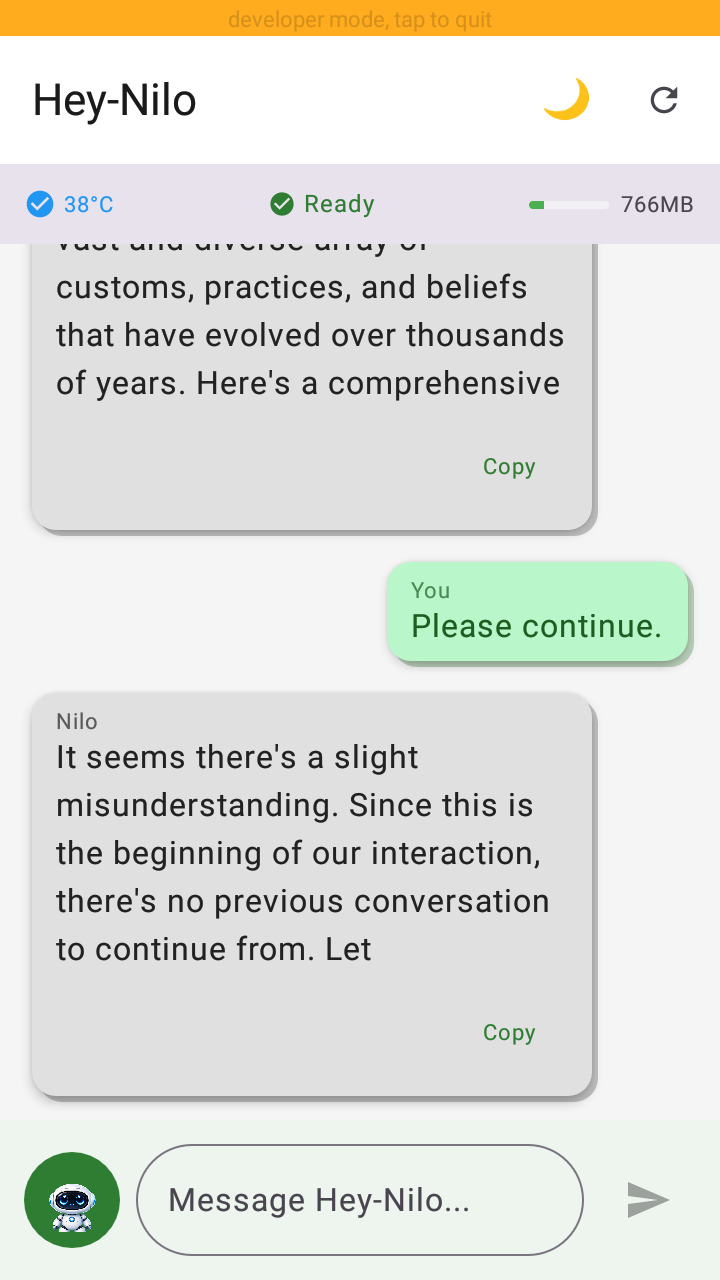
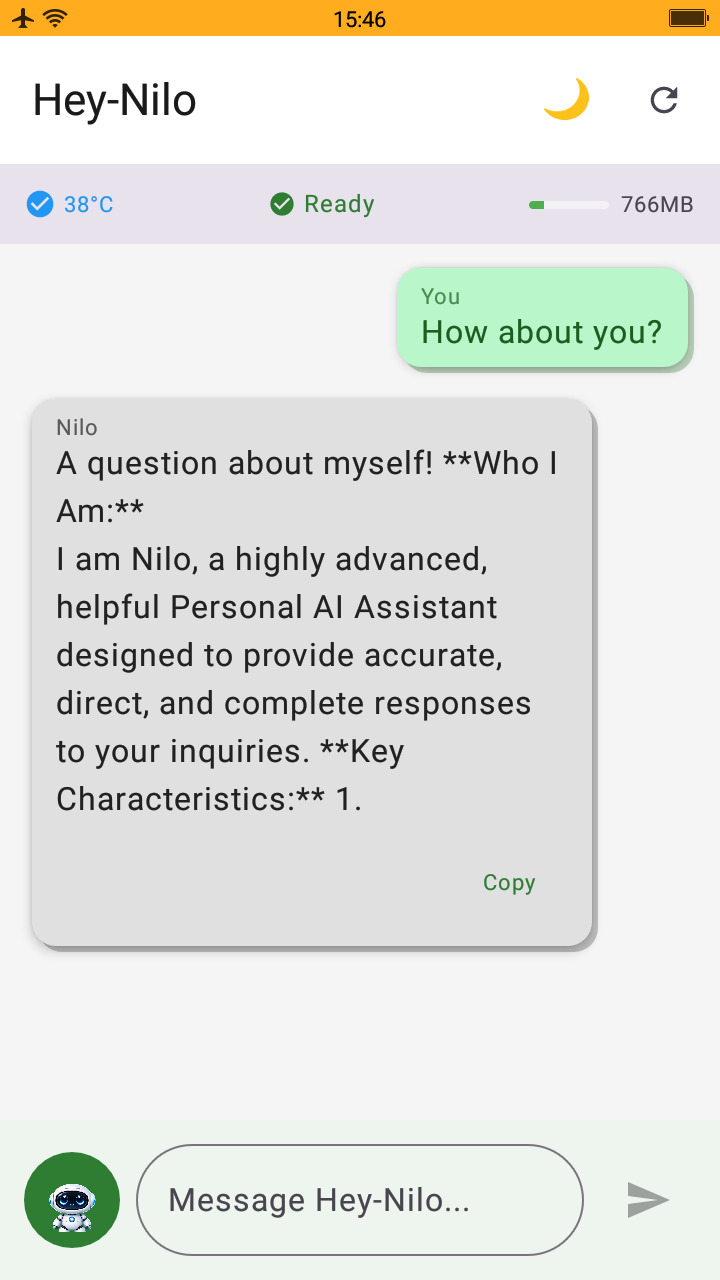
CRITICAL FIX: Only stop when response ENDS with complete sentence
The previous fix checked if the response CONTAINS a complete sentence,
but this allowed stopping mid-sentence if there was another sentence
before it.

Now we check if the response ENDS with .!? punctuation before stopping.
This ensures we never cut off mid-sentence.

Also handles the case where we hit the limit but don't have a complete
sentence ending yet - we continue collecting until we get one.

diff --git a/native_android/app/src/main/java/com/projekt_x/studybuddy/bridge/VoicePipelineManager.kt b/native_android/app/src/main/java/com/projekt_x/studybuddy/bridge/VoicePipelineManager.kt
@@ -1568,9 +1568,14 @@ class VoicePipelineManager(
                             if (wouldExceedLimit) {
                                 val currentResponse = fullResponseText.toString()
                                 val currentSentenceCount = countSentences(currentResponse)
-                                val hasCompleteSentence = currentSentenceCount > 0
                                 
-                                if (!hasCompleteSentence) {
+                                // CRITICAL FIX: Check if response ENDS with a complete sentence
+                                // Not just if it contains one - this prevents cutting off mid-sentence
+                                val trimmedResponse = currentResponse.trim()
+                                val endsWithCompleteSentence = trimmedResponse.isNotEmpty() && 
+                                    (trimmedResponse.last() == '.' || trimmedResponse.last() == '!' || trimmedResponse.last() == '?')
+                                
+                                if (currentSentenceCount == 0) {
                                     // No complete sentence yet, continue collecting
                                     Log.d(TAG, "Would exceed limit but no complete sentence yet - continuing")
                                 } else if (token.contains(Regex("[.!?]"))) {
@@ -1578,13 +1583,17 @@ class VoicePipelineManager(
                                     Log.i(TAG, "Max limit reached but completing current sentence")
                                     fullResponseText.append(token)
                                     // Continue to stop logic below
-                                } else {
-                                    // Skip this token and stop (we already have complete sentences)
+                                } else if (endsWithCompleteSentence) {
+                                    // We already end with a complete sentence, safe to stop
                                     Log.i(TAG, "MAX RESPONSE LENGTH REACHED: ${currentResponse.length} chars, $currentSentenceCount sentences - STOPPING at sentence boundary")
                                     // Continue to stop logic below without adding token
+                                } else {
+                                    // Don't stop yet - we're in the middle of a sentence
+                                    Log.d(TAG, "Would exceed limit but response doesn't end with complete sentence - continuing")
+                                    // Continue collecting until we get a sentence ending
                                 }
                                 
-                                if (hasCompleteSentence) {
+                                if (currentSentenceCount > 0 && (token.contains(Regex("[.!?]")) || endsWithCompleteSentence)) {
                                     // CRITICAL FIX: Store the EXACT bubble text as single source of truth
                                     val cleanResponse = truncateAtRoleLeakage(currentResponse)
                                     finalBubbleText = cleanResponse
